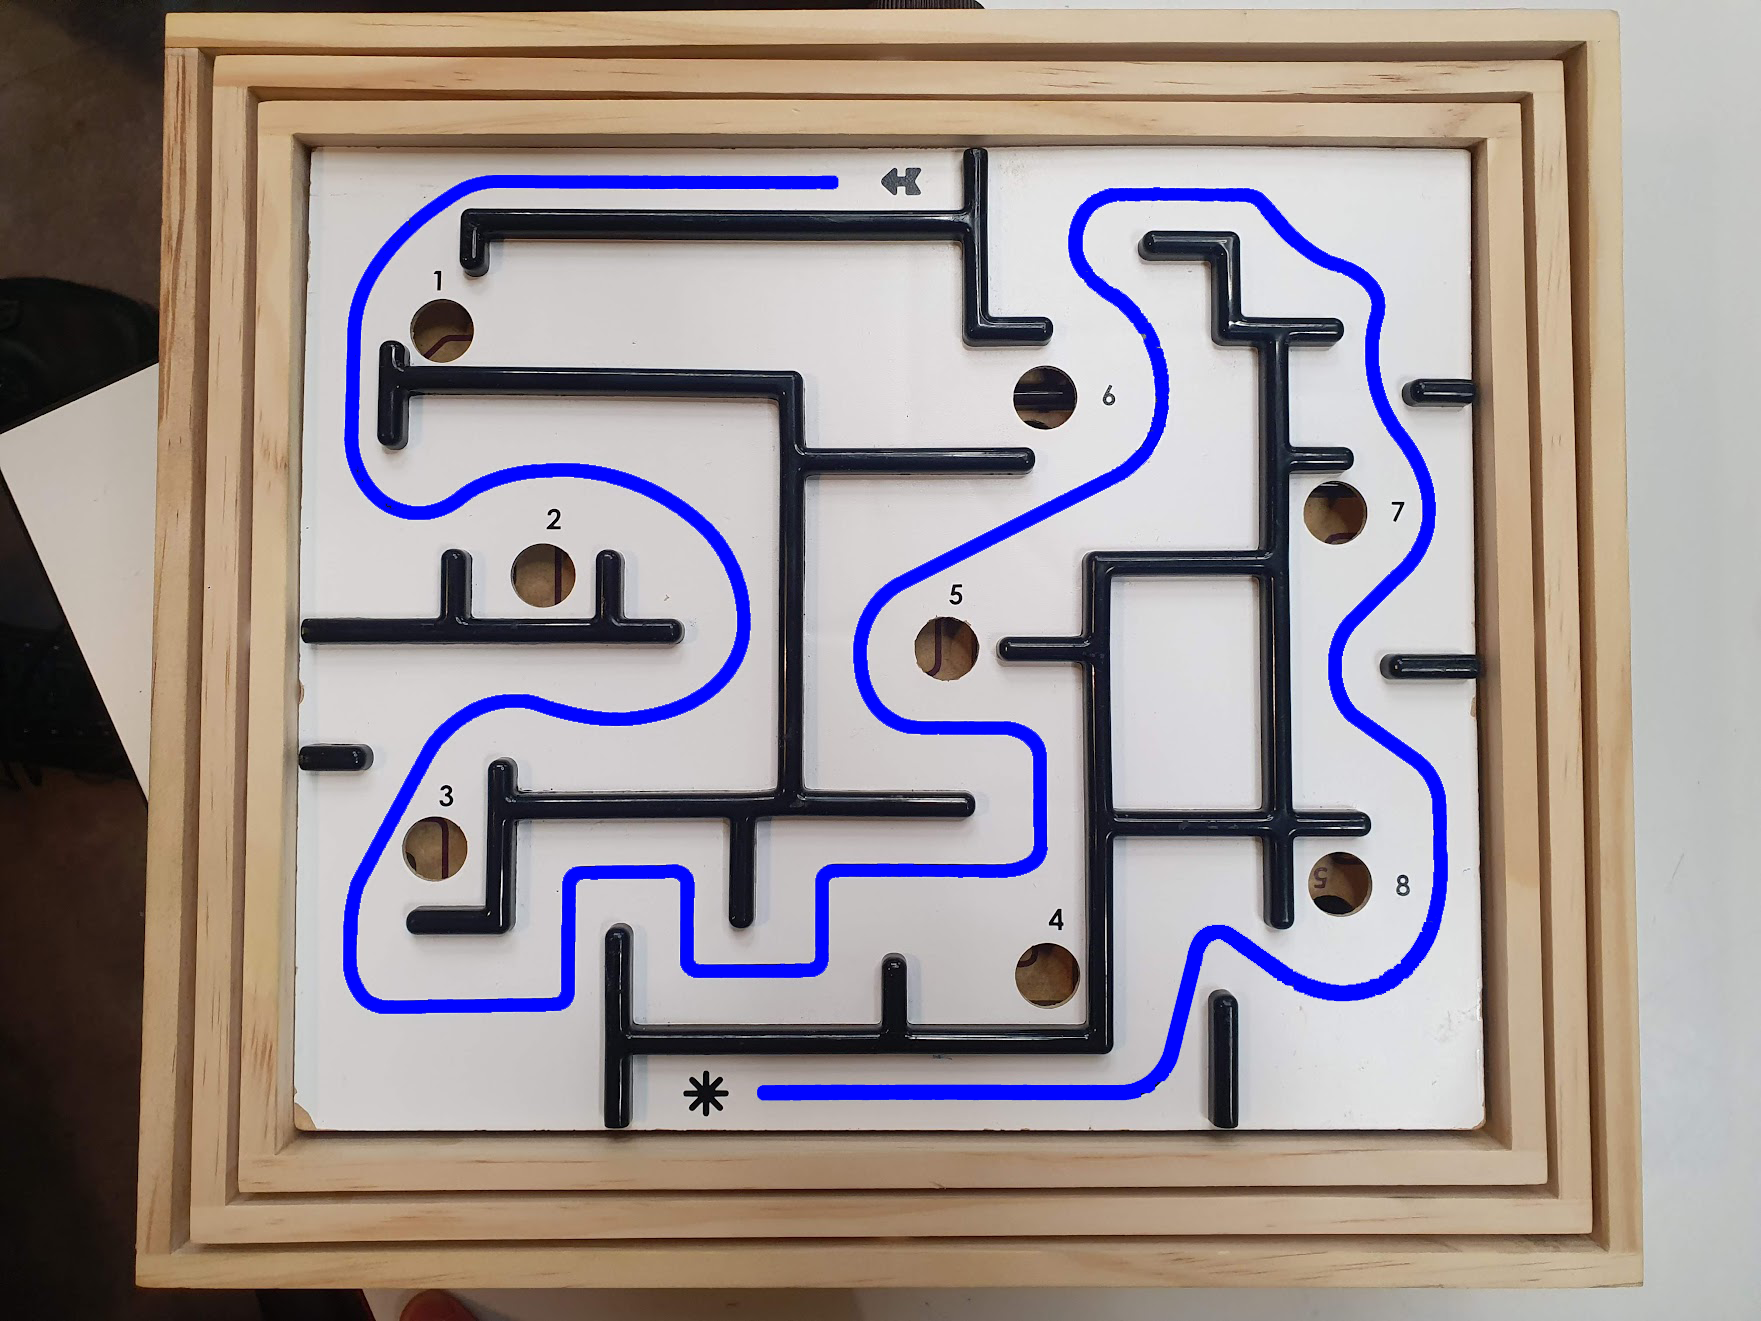
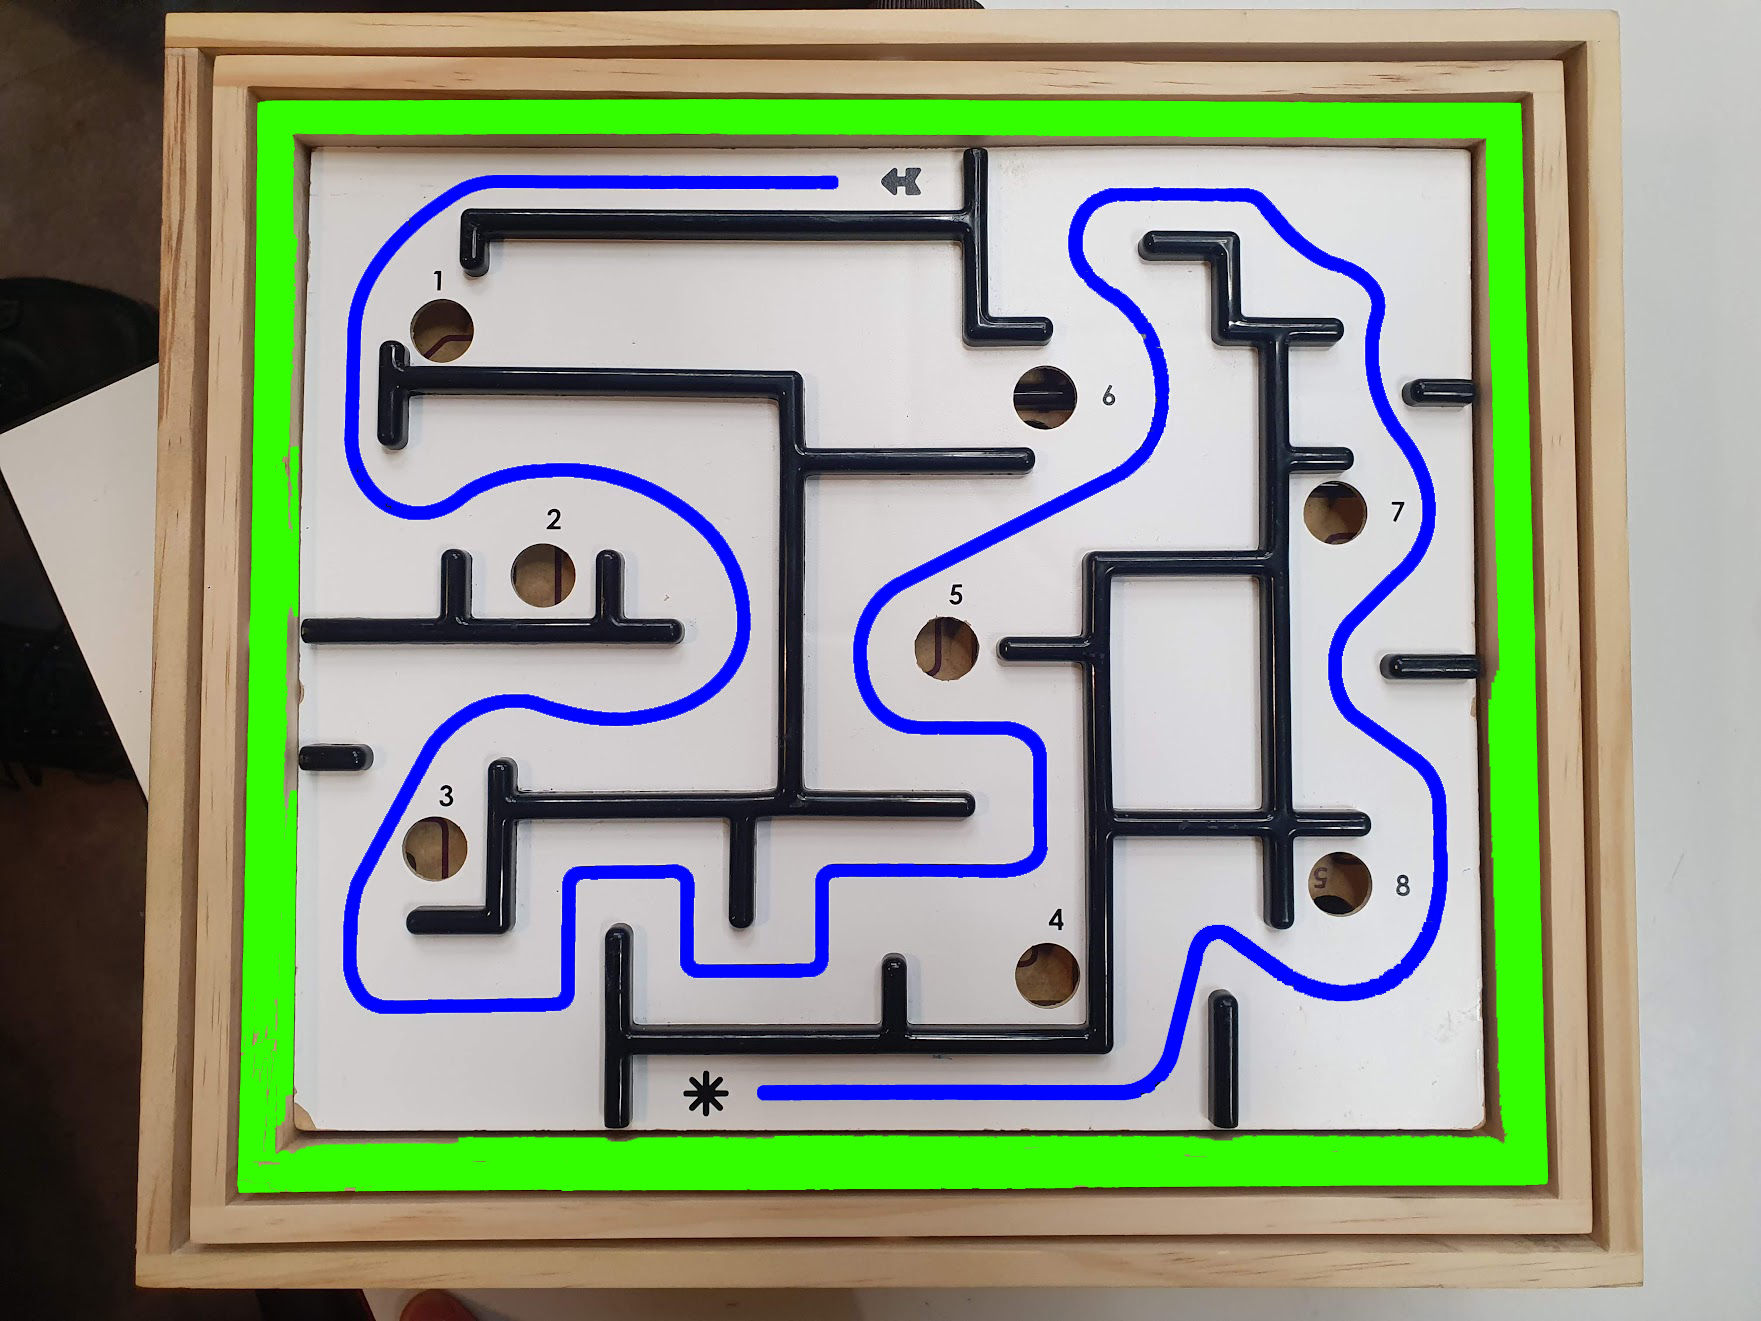
Simple image rectification

Changed region(s): [[0.1249, 0.0621, 0.9057, 0.9001]]

diff --git a/maze_solving/image_rectification.py b/maze_solving/image_rectification.py
@@ -1,0 +1,61 @@
+import cv2
+import numpy as np
+
+#green
+lower_color = np.array([50, 200, 200])
+upper_color = np.array([60, 255, 255])
+#white
+#lower_color = np.array([0, 0, 150])
+#upper_color = np.array([255, 50, 255])
+width = 720
+height = 540
+
+def rectify(image):
+
+    # Convert the image to HSV color space
+    hsv = cv2.cvtColor(image, cv2.COLOR_BGR2HSV)
+
+    # Create a binary mask where the color is within the range
+    mask = cv2.inRange(hsv, lower_color, upper_color)
+
+    cv2.imshow('Mask',mask)
+
+    # Find contours in the mask
+    contours, _ = cv2.findContours(mask, cv2.RETR_EXTERNAL, cv2.CHAIN_APPROX_SIMPLE)
+
+    # Assume the largest contour is the quadrilateral
+    contour = max(contours, key=cv2.contourArea)
+
+    # Get the convex hull of the contour
+    hull = cv2.convexHull(contour)
+
+    # Approximate the convex hull to a polygon with four vertices
+    epsilon = 0.02*cv2.arcLength(hull, True)
+    approx = cv2.approxPolyDP(hull, epsilon, True)
+    #print(len(approx))
+
+    # Now you can use these points in the perspective transform as before
+    src_pts = np.float32(approx)
+    #src_pts = src_pts[src_pts[:, :, 1].argsort(axis=0)[:, 0]]
+    #src_pts[:2] = src_pts[:2][src_pts[:2, :, 0].argsort(axis=0)[:, 0]]
+    #src_pts[2:] = src_pts[2:][src_pts[2:, :, 0].argsort(axis=0)[:, 0][::-1]]
+    #dst_pts = np.float32([[0, 0], [width, 0], [width, height], [0, height]])
+
+    dst_pts = np.float32([[width, 0], [width, height], [0, height], [0, 0]])
+    # Compute the homography matrix
+    H, _ = cv2.findHomography(src_pts, dst_pts)
+
+    # Apply the perspective transformation
+    warped_image = cv2.warpPerspective(image, H, (width, height))
+
+    return warped_image
+
+if __name__ == "__main__":
+    # Load the image
+    image = cv2.imread('maze_edited_noborder_warp.png')
+    image = cv2.resize(image,(720,540))
+
+    # Display the image
+    cv2.imshow('Image', rectify(image))
+    cv2.waitKey(0)
+    cv2.destroyAllWindows()

diff --git a/maze_solving/basic_solve.py b/maze_solving/basic_solve.py
@@ -2,10 +2,13 @@ import cv2
 import numpy as np
 from skimage.morphology import skeletonize
 from skimage import img_as_ubyte
+from image_rectification import rectify
 
 # Load the image
-image = cv2.imread('maze_solving\maze_edited.png')
+image = cv2.imread('maze_edited_warp.png')
 image = cv2.resize(image,(720,540))
+
+image = rectify(image)
 
 # Convert the frame to HSV
 hsv = cv2.cvtColor(image, cv2.COLOR_BGR2HSV)
@@ -40,7 +43,7 @@ def click_event(event, x_start, y_start, flags, param):
         image_copy = image.copy()
 
         # Define the step size
-        step_size = 5
+        step_size = 50
 
         # While there are still points on the path
         while len(x_copy) > 0 and len(y_copy) > 0:

diff --git a/maze_solving/vector_distance.py b/maze_solving/vector_distance.py
@@ -4,7 +4,7 @@ from skimage.morphology import skeletonize
 from skimage import img_as_ubyte
 
 # Load the image
-image = cv2.imread('maze_solving\maze_edited.png')
+image = cv2.imread('maze_edited.png')
 image = cv2.resize(image,(720,540))
 
 # Convert the frame to HSV

diff --git a/maze_solving/get_colour_script.py b/maze_solving/get_colour_script.py
@@ -2,7 +2,7 @@ import cv2
 import numpy as np
 
 # Load an image
-image = cv2.imread('maze_solving\maze_edited.png')
+image = cv2.imread('maze_edited.png')
 
 # Convert the image to HSV
 hsv_image = cv2.cvtColor(image, cv2.COLOR_BGR2HSV)
